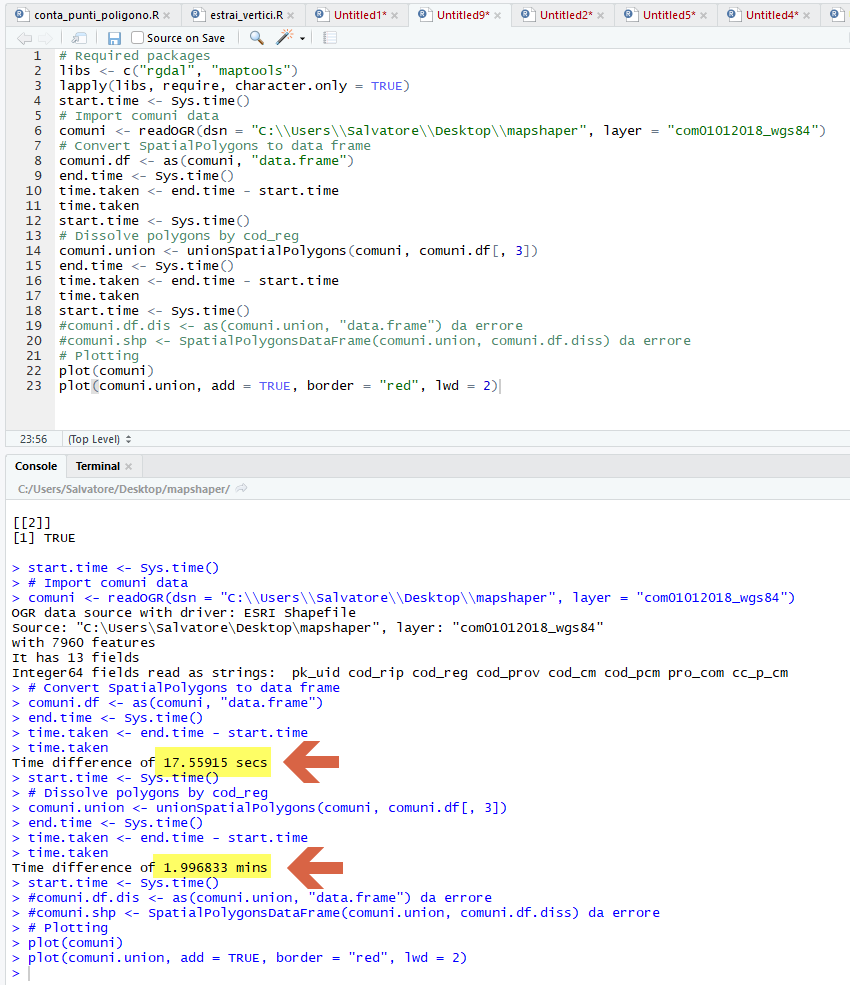
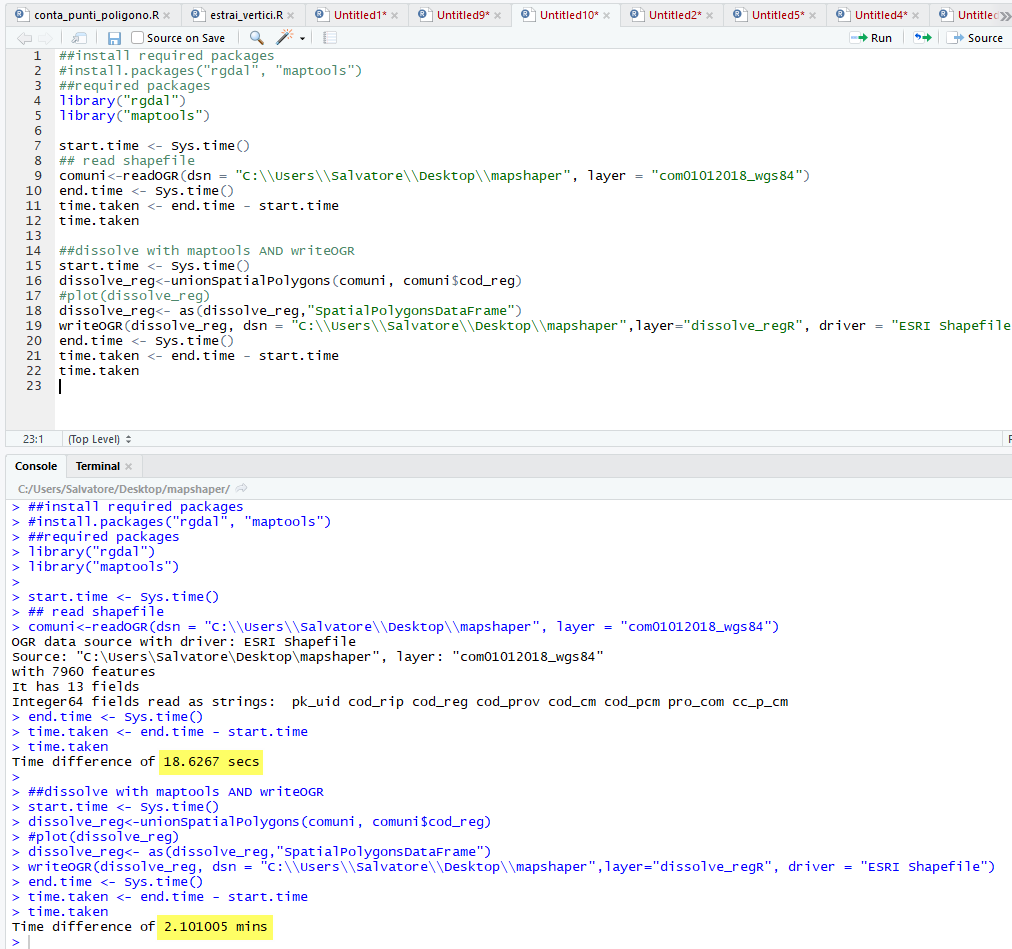
update R dissolve

diff --git a/prove/dissolvi_regione.md b/prove/dissolvi_regione.md
@@ -80,29 +80,28 @@ time mapshaper encoding=utf-8  com01012018_wgs84.shp -dissolve cod_reg -o outdis
 ## R +RStudio
 
 ```
-# Required packages
-libs <- c("rgdal", "maptools")
-lapply(libs, require, character.only = TRUE)
+##install required packages
+#install.packages("rgdal", "maptools")
+##required packages
+library("rgdal")
+library("maptools")
+
 start.time <- Sys.time()
-# Import comuni data
-comuni <- readOGR(dsn = "C:\\Users\\Salvatore\\Desktop\\mapshaper", layer = "com01012018_wgs84")
-# Convert SpatialPolygons to data frame
-comuni.df <- as(comuni, "data.frame")
+## read shapefile
+comuni<-readOGR(dsn = "C:\\Users\\Salvatore\\Desktop\\mapshaper", layer = "com01012018_wgs84")
 end.time <- Sys.time()
 time.taken <- end.time - start.time
 time.taken
+
+##dissolve with maptools AND writeOGR
 start.time <- Sys.time()
-# Dissolve polygons by cod_reg
-comuni.union <- unionSpatialPolygons(comuni, comuni.df[, 3])
+dissolve_reg<-unionSpatialPolygons(comuni, comuni$cod_reg)
+#plot(dissolve_reg)
+dissolve_reg<- as(dissolve_reg,"SpatialPolygonsDataFrame")
+writeOGR(dissolve_reg, dsn = "C:\\Users\\Salvatore\\Desktop\\mapshaper",layer="dissolve_regR", driver = "ESRI Shapefile")
 end.time <- Sys.time()
 time.taken <- end.time - start.time
 time.taken
-start.time <- Sys.time()
-#comuni.df.dis <- as(comuni.union, "data.frame") da errore
-#comuni.shp <- SpatialPolygonsDataFrame(comuni.union, comuni.df.diss) da errore
-# Plotting
-plot(comuni)
-plot(comuni.union, add = TRUE, border = "red", lwd = 2)
 ```
 
 ![](../img/dissolvi_regione/r_01.png)
@@ -117,7 +116,6 @@ tempo [sec]|programma
 253|QGIS 3.2.3
 247|QGIS 3.3 master con debug
 249|SpatiaLite_GUI 2.10
-381|pgAdmin 3 con spatialIndex
+381|pgAdmin 3 (PostGIS 2.2.3)
 9|mapshaper
-18+120|R + RStudio
-
+19+120|R + RStudio
